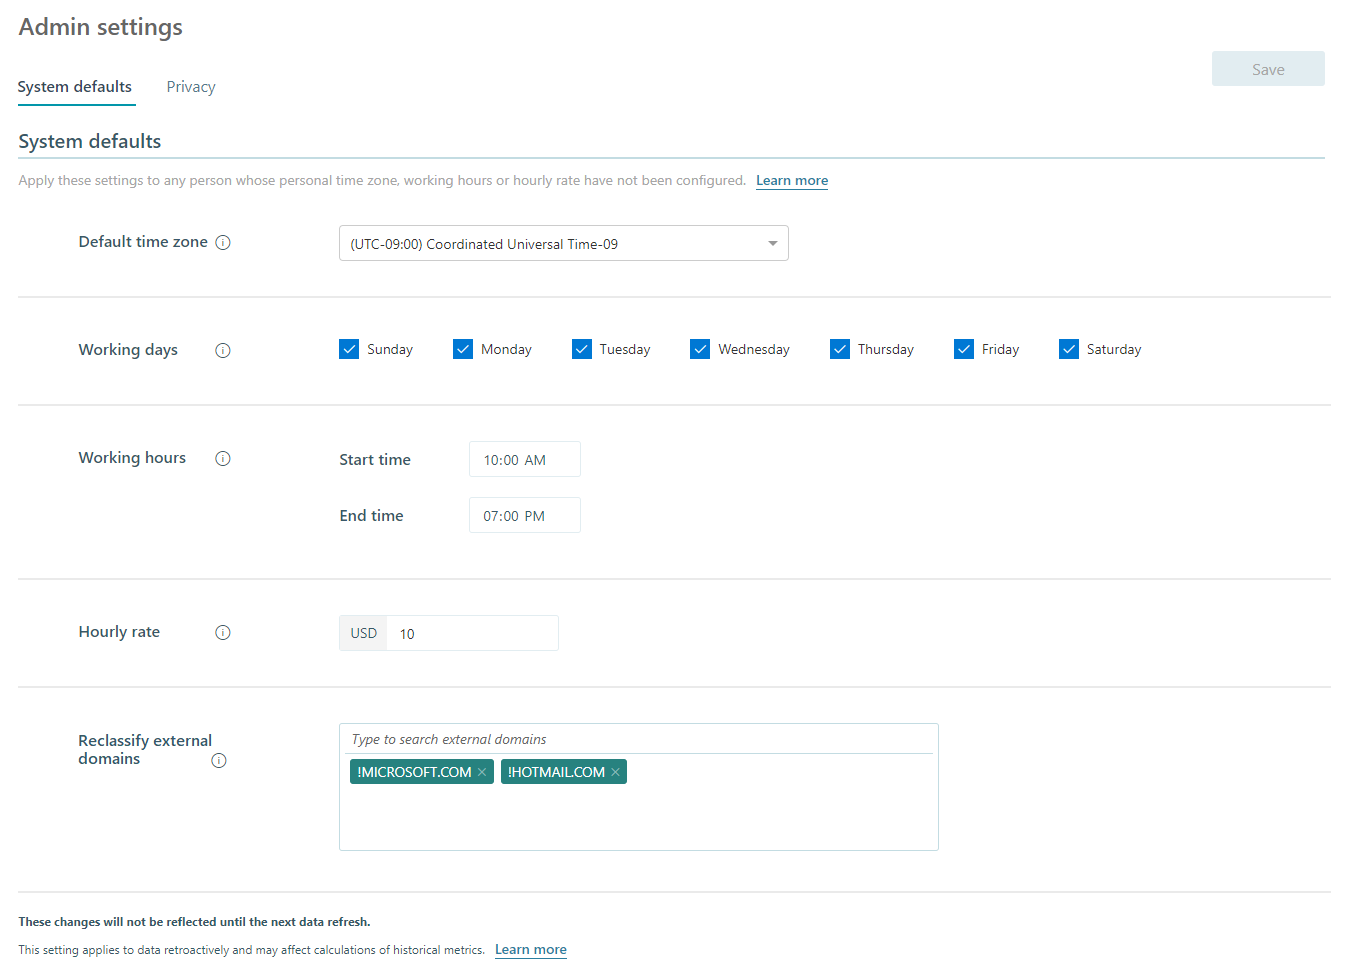
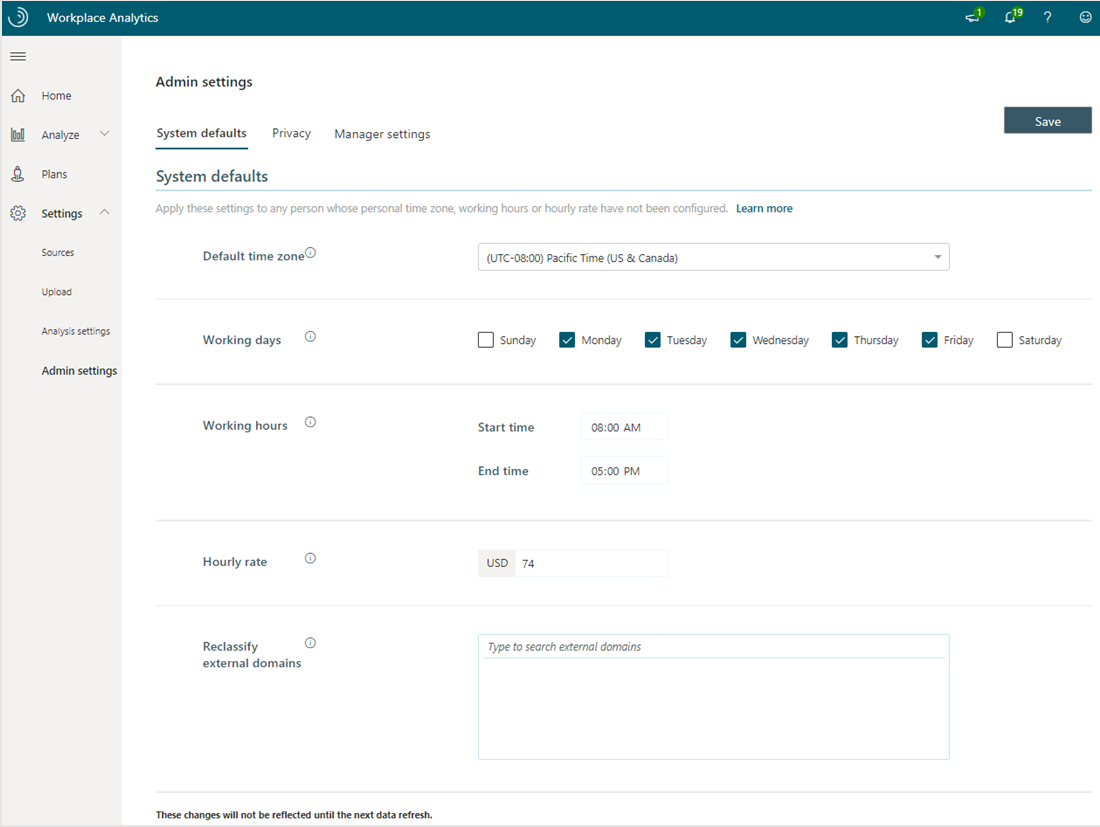
updated admin settings
screenshot

diff --git a/WorkplaceAnalytics/Use/Settings.md b/WorkplaceAnalytics/Use/Settings.md
@@ -68,9 +68,9 @@ For detailed information on how to create new exclusion rules, see [Meeting excl
 
 ## Admin settings
 
- * **Owner** – Workplace Analytics Admins have full access to this page.
+ * **Owner** – Workplace Analytics Admins have full access to this page
 
-In **Admin settings**, you can configure [system defaults](#system-defaults) and [privacy settings](#privacy-settings).
+In **Admin settings**, you can configure [system defaults](#system-defaults), [privacy settings](#privacy-settings), and [manager settings](#manager-settings).
 
 ![Admin settings](../images/wpa/use/admin-system-defaults.png)
 
